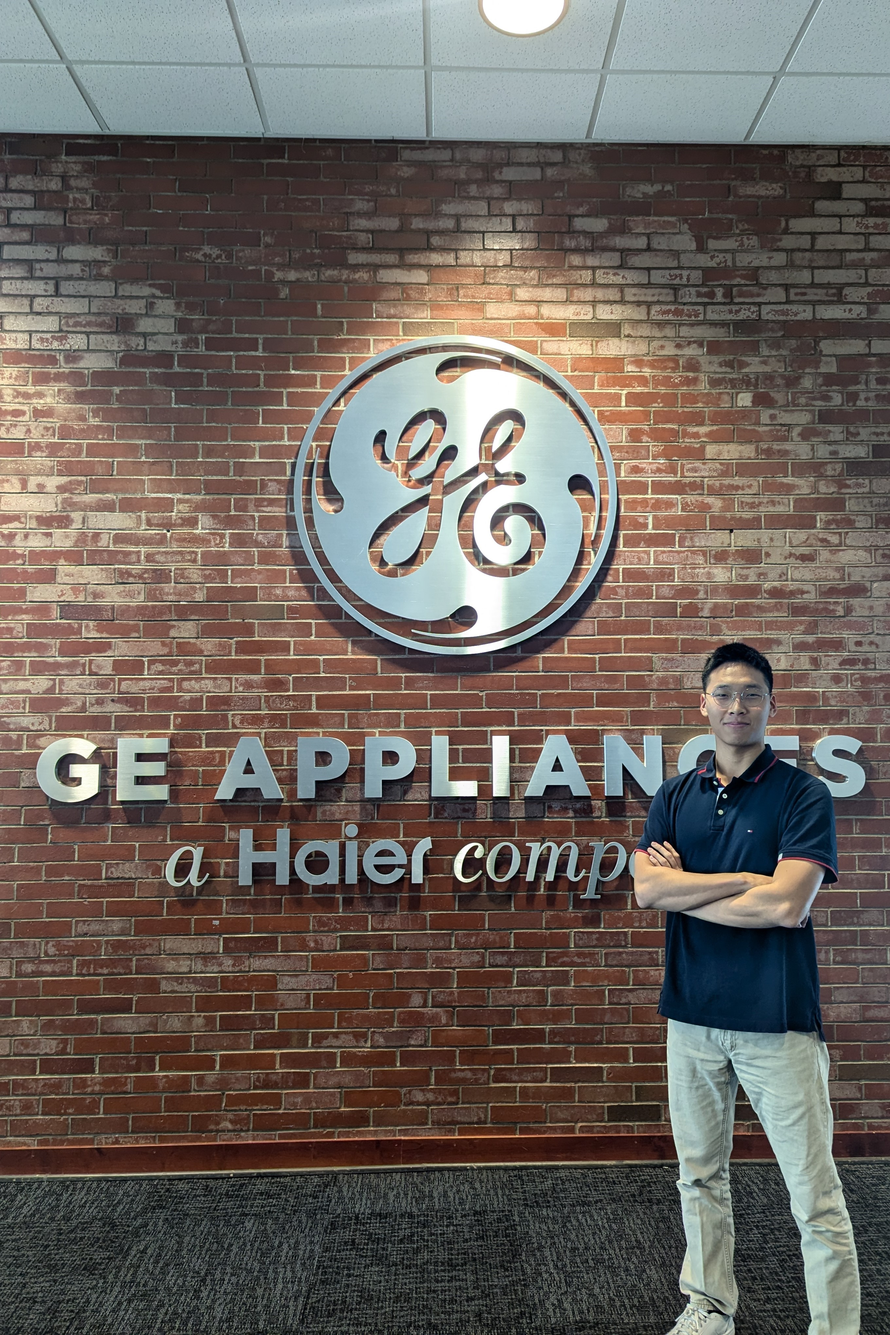
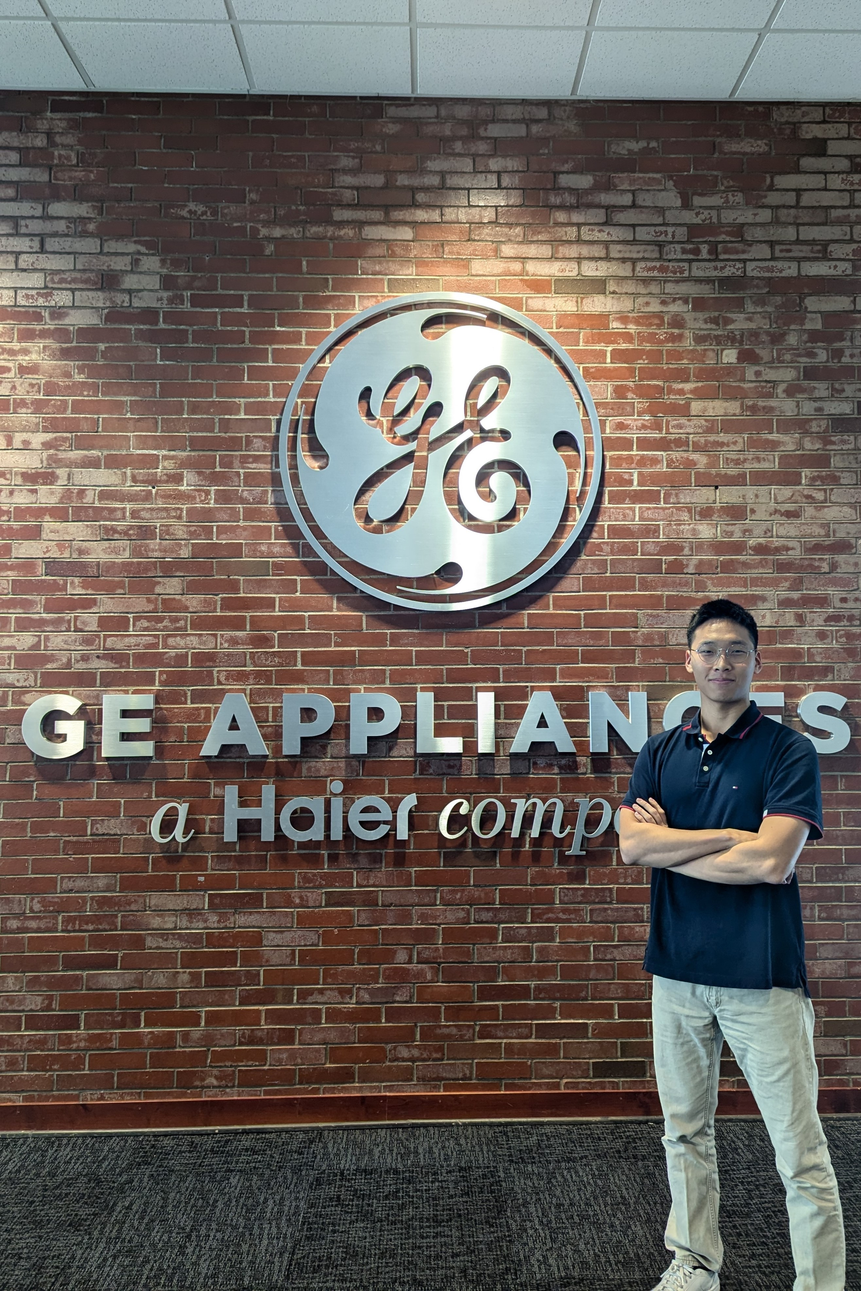
photo update

diff --git a/Professional Experiance.html b/Professional Experiance.html
@@ -42,7 +42,7 @@
         <h3>Mechanical Engineer</h3>
         <br>
         <div class="wrapper_L">
-            <img src="images/GEA Logo.jpg" alt="" loading="lazy" height=250 width=375>
+            <img src="images/Me/prof ex cover.jpg" alt="" loading="lazy" height=400 width=300>
             <p>
                 During my co-op at GE Appliances, I helped accelerate a product launch by three weeks and developed CAN Bus control logic for air conditioning systems. I also designed an air flow chamber using SolidWorks and CFD analysis, saving over $30,000 and exceeding performance targets. My work integrated mechanical design, software development, and R&D to deliver impactful results.
                 <br>

diff --git a/index.html b/index.html
@@ -42,7 +42,7 @@
     <!--Categories--------------------->
     <section>
         <div class="button-container">
-            <a href="Professional Experiance.html"><button><img src="images/Me/prof ex cover.jpg" loading="lazy" alt="Image" height="300"
+            <a href="Professional Experiance.html"><button><img src="images/Me/IMG_4761.JPG" loading="lazy" alt="Image" height="300"
                 width="200"><br>Professional Experiance</button></a>
             <a href="robotics.html"><button><img src="images/rhino_cover.jpg" loading="lazy" alt="Image" height="300"
                         width="200"><br>Robotics</button></a>
